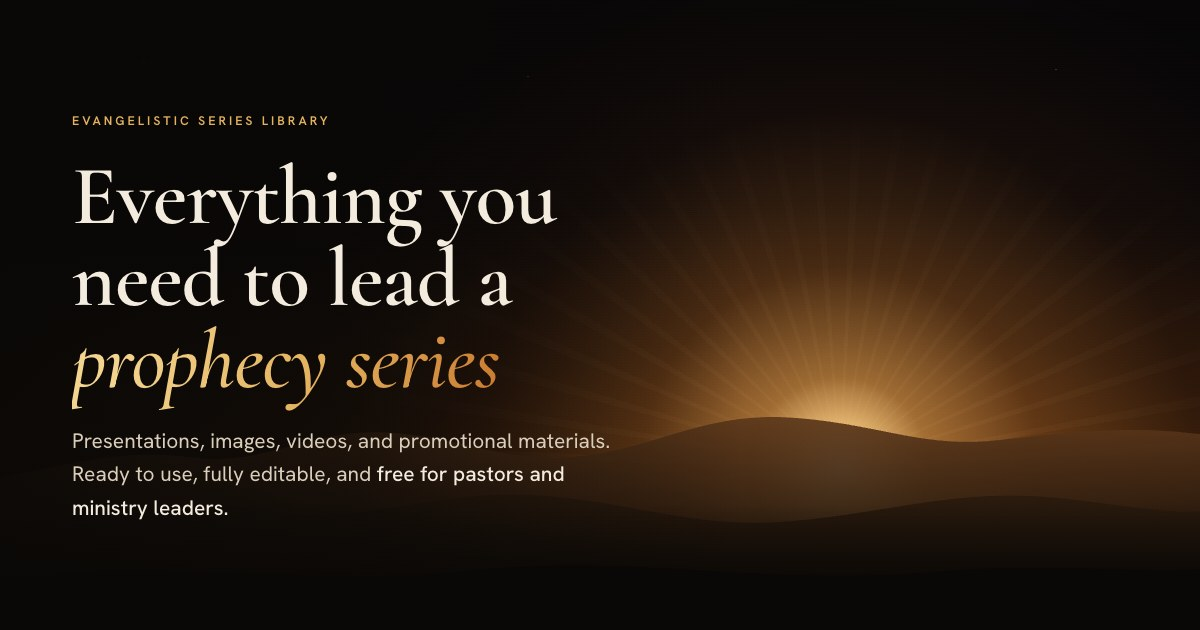
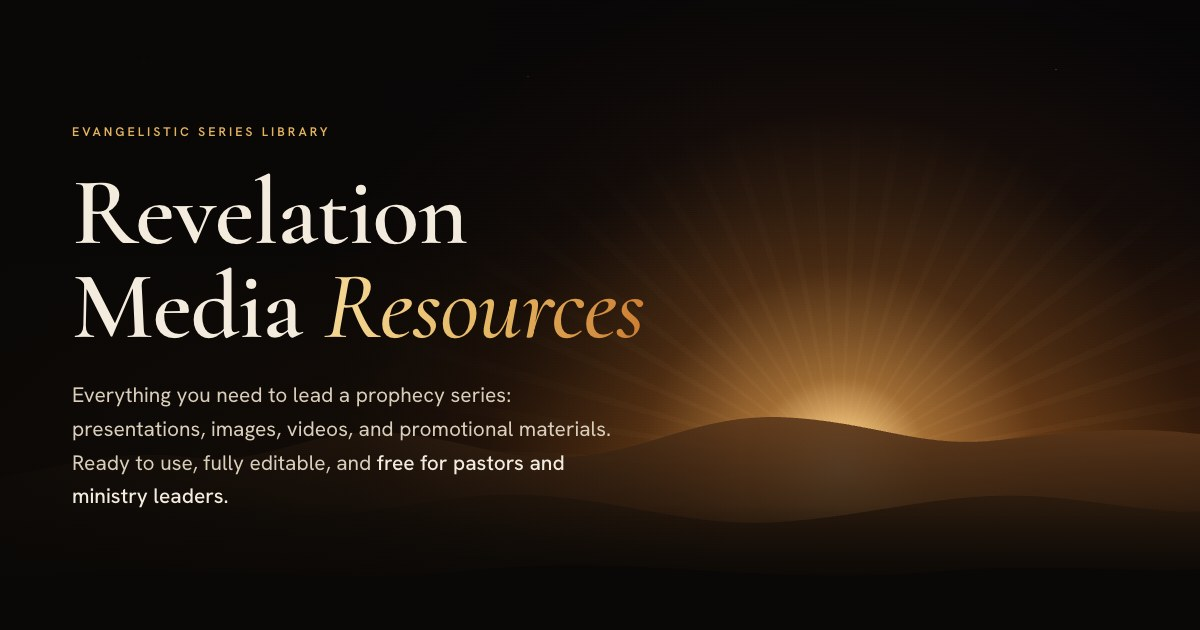
SEO and AEO: search-led titles, H1 with category, linked JSON-LD graph, llms.txt
- Home titles/descriptions per language lead with the search phrase
- H1 includes the Evangelistic Series Library eyebrow (pixel-identical)
- JSON-LD graph: Organization, WebSite, WebPage (speakable), free kit
  CreativeWork with Offer, HowTo, FAQPage, BreadcrumbList
- Definition and audience questions added to the FAQ
- /llms.txt generated from the copy; robots meta with large image preview
- Legal pages noindex and out of the sitemap until real texts arrive
- Fresh per-language OG images, apple-touch-icon, sitemap lastmod

Changed region(s): [[0.0617, 0.2413, 0.555, 0.8143], [0.0617, 0.181, 0.2775, 0.2111]]

diff --git a/src/lib/schema.ts b/src/lib/schema.ts
@@ -1,0 +1,112 @@
+// schema.org structured data (JSON-LD). One @graph per page, nodes linked by @id,
+// so search engines and AI answer engines get a consistent picture of the site.
+import type { Site } from '../i18n';
+import { plain } from './rich';
+
+const BUILD_DATE = new Date().toISOString().slice(0, 10);
+
+interface Ctx {
+  site: Site;
+  siteUrl: string; // https://revelationresource.org/
+  pageUrl: string; // canonical URL of this page
+  homeUrl: string; // home page in this language
+  lang: string;
+  logoUrl: string;
+  contactEmail: string;
+  langs: string[];
+}
+
+const id = (base: string, frag: string) => `${base.replace(/\/$/, '')}/#${frag}`;
+
+export function baseGraph(c: Ctx, page: { name: string; description: string; home: boolean; breadcrumb?: string }) {
+  const org = id(c.siteUrl, 'organization');
+  const website = id(c.siteUrl, 'website');
+  const nodes: Record<string, unknown>[] = [
+    {
+      '@type': 'Organization',
+      '@id': org,
+      name: c.site.organization.name,
+      url: c.siteUrl,
+      logo: { '@type': 'ImageObject', url: c.logoUrl },
+      email: c.contactEmail,
+      contactPoint: { '@type': 'ContactPoint', contactType: 'customer support', email: c.contactEmail, availableLanguage: c.langs },
+    },
+    {
+      '@type': 'WebSite',
+      '@id': website,
+      name: c.site.brand,
+      url: c.siteUrl,
+      inLanguage: c.langs,
+      publisher: { '@id': org },
+    },
+    {
+      '@type': 'WebPage',
+      '@id': `${c.pageUrl}#webpage`,
+      url: c.pageUrl,
+      name: page.name,
+      description: page.description,
+      inLanguage: c.lang,
+      isPartOf: { '@id': website },
+      dateModified: BUILD_DATE,
+      ...(page.home
+        ? {
+            about: { '@id': id(c.homeUrl, 'kit') },
+            primaryImageOfPage: { '@id': id(c.homeUrl, 'ogimage') },
+            // parts a voice assistant can read out
+            speakable: { '@type': 'SpeakableSpecification', cssSelector: ['#hero-title', '.lead', '#faq'] },
+          }
+        : {}),
+      ...(page.breadcrumb ? { breadcrumb: { '@id': `${c.pageUrl}#breadcrumb` } } : {}),
+    },
+  ];
+  if (page.breadcrumb) {
+    nodes.push({
+      '@type': 'BreadcrumbList',
+      '@id': `${c.pageUrl}#breadcrumb`,
+      itemListElement: [
+        { '@type': 'ListItem', position: 1, name: c.site.brand, item: c.homeUrl },
+        { '@type': 'ListItem', position: 2, name: page.breadcrumb, item: c.pageUrl },
+      ],
+    });
+  }
+  return nodes;
+}
+
+/** Extra nodes for the landing page: the kit itself, how to get it, the FAQ. */
+export function homeGraph(c: Ctx, ogImage: string) {
+  const s = c.site;
+  const org = id(c.siteUrl, 'organization');
+  return [
+    { '@type': 'ImageObject', '@id': id(c.homeUrl, 'ogimage'), url: ogImage, width: 1200, height: 630 },
+    {
+      '@type': 'CreativeWork',
+      '@id': id(c.homeUrl, 'kit'),
+      name: s.meta.kitName,
+      alternateName: s.brand,
+      description: plain(s.hero.lead),
+      url: c.homeUrl,
+      image: ogImage,
+      inLanguage: c.langs,
+      isAccessibleForFree: true,
+      audience: { '@type': 'Audience', audienceType: s.meta.audience },
+      publisher: { '@id': org },
+      hasPart: s.inside.stats.map((st) => ({ '@type': 'CreativeWork', name: `${st.value} ${st.label}` })),
+      offers: { '@type': 'Offer', price: '0', priceCurrency: 'USD', availability: 'https://schema.org/InStock', url: `${c.homeUrl}#get` },
+    },
+    {
+      '@type': 'HowTo',
+      '@id': id(c.homeUrl, 'howto'),
+      name: s.meta.howToName,
+      inLanguage: c.lang,
+      totalTime: 'PT1M',
+      estimatedCost: { '@type': 'MonetaryAmount', currency: 'USD', value: '0' },
+      step: s.getKit.steps.map((st, i) => ({ '@type': 'HowToStep', position: i + 1, name: st.title, text: st.text, url: `${c.homeUrl}#get` })),
+    },
+    {
+      '@type': 'FAQPage',
+      '@id': id(c.homeUrl, 'faq'),
+      inLanguage: c.lang,
+      mainEntity: s.faq.items.map((f) => ({ '@type': 'Question', name: f.q, acceptedAnswer: { '@type': 'Answer', text: f.a } })),
+    },
+  ];
+}

diff --git a/src/i18n/locales/en.ts b/src/i18n/locales/en.ts
@@ -19,9 +19,16 @@ const en = {
   },
 
   meta: {
+    // Brand, used as the suffix of every page title
     title: 'Revelation Media Resources',
+    // Home page <title>: lead with what people search for (keep under ~65 characters)
+    homeTitle: 'Free Prophecy Series Kit for Pastors | Revelation Media Resources',
     description:
-      'Presentations, images, videos, and promotional materials for leading a prophecy series. Ready to use, fully editable, and free for pastors and ministry leaders.',
+      'Free evangelistic series kit for pastors: prophecy seminar presentations, images, videos and promo materials, editable in PowerPoint, Keynote and Google Slides.',
+    // Structured data (search engines and AI answers)
+    kitName: 'Revelation Media Resources evangelistic series kit',
+    audience: 'Pastors, church leaders and ministry organizations',
+    howToName: 'How to get the Revelation Media Resources kit',
     ogImageAlt: 'Revelation Media Resources: everything you need to lead a prophecy series',
   },
 
@@ -158,8 +165,11 @@ const en = {
   faq: {
     eyebrow: 'Questions',
     title: 'Before you *ask*',
+    // Also published as FAQPage structured data. Start answers with the direct answer.
     items: [
-      { q: 'Is it really free?', a: 'Yes. The full kit is free for pastors, churches, and ministry organizations. Just fill out the short form to get access.', open: true },
+      { q: 'What is Revelation Media Resources?', a: 'Revelation Media Resources is a free library of ready-made materials for running an evangelistic prophecy series: presentations, slides, images, videos, and promotional materials for pastors, churches, and ministry organizations.', open: true },
+      { q: 'Is it really free?', a: 'Yes. The full kit is free for pastors, churches, and ministry organizations. Just fill out the short form to get access.' },
+      { q: 'Who can use these materials?', a: 'Pastors, church leaders, and ministry organizations who want to run an evangelistic series. No design skills are needed: the files are ready to present and easy to adapt to your church.' },
       { q: 'What formats are included?', a: 'Presentations come in PowerPoint, Keynote, and Google Slides. Images and videos are provided in standard formats that work on any device.' },
       { q: 'Can I edit the materials?', a: "Yes. You can change text, reorder slides, and add your church's details to fit your program." },
       { q: 'Which languages are available?', a: "The kit is available in several languages, listed in the translation section below. Don't see yours? You can help us translate it." },

diff --git a/src/i18n/locales/es.ts b/src/i18n/locales/es.ts
@@ -14,8 +14,12 @@ const es: Site = {
 
   meta: {
     title: 'Revelation Media Resources',
+    homeTitle: 'Kit gratuito para series de profecía | Revelation Media Resources',
     description:
-      'Presentaciones, imágenes, videos y materiales promocionales para dirigir una serie sobre profecía. Listos para usar, totalmente editables y gratuitos para pastores y líderes de ministerio.',
+      'Kit gratuito para pastores: presentaciones para seminarios de profecía, imágenes, videos y materiales promocionales, editables en PowerPoint, Keynote y Google Slides.',
+    kitName: 'Kit de series evangelísticas de Revelation Media Resources',
+    audience: 'Pastores, líderes de iglesia y organizaciones ministeriales',
+    howToName: 'Cómo obtener el kit de Revelation Media Resources',
     ogImageAlt: 'Revelation Media Resources: todo lo que necesita para dirigir una serie sobre profecía',
   },
 
@@ -151,7 +155,9 @@ const es: Site = {
     eyebrow: 'Preguntas',
     title: 'Antes de que *pregunte*',
     items: [
-      { q: '¿Es realmente gratuito?', a: 'Sí. El kit completo es gratuito para pastores, iglesias y organizaciones ministeriales. Solo complete el breve formulario para obtener acceso.', open: true },
+      { q: '¿Qué es Revelation Media Resources?', a: 'Revelation Media Resources es una biblioteca gratuita de materiales listos para dirigir una serie evangelística sobre profecía: presentaciones, diapositivas, imágenes, videos y materiales promocionales para pastores, iglesias y organizaciones ministeriales.', open: true },
+      { q: '¿Es realmente gratuito?', a: 'Sí. El kit completo es gratuito para pastores, iglesias y organizaciones ministeriales. Solo complete el breve formulario para obtener acceso.' },
+      { q: '¿Quién puede usar estos materiales?', a: 'Pastores, líderes de iglesia y organizaciones ministeriales que quieran dirigir una serie evangelística. No necesita saber de diseño: los archivos están listos para presentar y son fáciles de adaptar a su iglesia.' },
       { q: '¿Qué formatos incluye?', a: 'Las presentaciones vienen en PowerPoint, Keynote y Google Slides. Las imágenes y los videos se entregan en formatos estándar que funcionan en cualquier dispositivo.' },
       { q: '¿Puedo editar los materiales?', a: 'Sí. Puede cambiar textos, reordenar diapositivas y agregar los datos de su iglesia para adaptarlos a su programa.' },
       { q: '¿Qué idiomas están disponibles?', a: 'El kit está disponible en varios idiomas, que se indican en la sección de traducción más abajo. ¿No ve el suyo? Puede ayudarnos a traducirlo.' },

diff --git a/src/pages/llms.txt.ts b/src/pages/llms.txt.ts
@@ -1,0 +1,49 @@
+import type { APIRoute } from 'astro';
+import { locales, localeCodes, defaultLocale, localePath } from '../i18n';
+import { legalPagesReady } from '../i18n/config.mjs';
+import { config } from '../config';
+
+// /llms.txt: a plain summary for AI assistants and answer engines (llmstxt.org).
+// Generated from the same copy as the page, so it never drifts.
+export const GET: APIRoute = ({ site }) => {
+  const s = locales[defaultLocale];
+  const url = (lang: string, path = '/') => new URL(localePath(lang, path), site).href;
+  const lines = [
+    `# ${s.brand}`,
+    '',
+    `> ${s.meta.description}`,
+    '',
+    s.faq.items[0].a,
+    '',
+    '## Key facts',
+    '',
+    `- Audience: ${s.meta.audience}`,
+    '- Price: free',
+    `- Formats: ${s.hero.trust.slice(0, 3).join(', ')}`,
+    `- What is included: ${s.inside.stats.map((st) => `${st.value} ${st.label.toLowerCase()}`).join(', ')}`,
+    `- Program stages: ${s.journey.steps.map((st) => st.title).join('; ')}`,
+    `- Site languages: ${localeCodes.map((c) => `${locales[c].locale.name} (${url(c)})`).join(', ')}`,
+    '',
+    '## How to get access',
+    '',
+    ...s.getKit.steps.map((st, i) => `${i + 1}. ${st.title}. ${st.text}`),
+    `Request form: ${url(defaultLocale)}#get`,
+    '',
+    '## Pages',
+    '',
+    `- [${s.brand}](${url(defaultLocale)}): ${s.meta.description}`,
+    ...localeCodes.filter((c) => c !== defaultLocale).map((c) => `- [${locales[c].meta.homeTitle}](${url(c)}): ${locales[c].meta.description}`),
+    ...(legalPagesReady ? [`- [${s.legal.terms.title}](${url(defaultLocale, '/terms')})`, `- [${s.legal.privacy.title}](${url(defaultLocale, '/privacy')})`] : []),
+    '',
+    '## FAQ',
+    '',
+    ...s.faq.items.flatMap((f) => [`### ${f.q}`, '', f.a, '']),
+    '## Contact',
+    '',
+    `- General: ${config.contactEmail}`,
+    `- Support: ${config.supportEmail}`,
+    `- Volunteer translators: ${config.translateEmail}`,
+    '',
+  ];
+  return new Response(lines.join('\n'), { headers: { 'Content-Type': 'text/plain; charset=utf-8' } });
+};

diff --git a/src/pages/robots.txt.ts b/src/pages/robots.txt.ts
@@ -1,6 +1,8 @@
 import type { APIRoute } from 'astro';
 
 export const GET: APIRoute = ({ site }) =>
-  new Response(`User-agent: *\nAllow: /\n\nSitemap: ${new URL('sitemap-index.xml', site).href}\n`, {
+  new Response(
+    // Search engines and AI crawlers are welcome; /llms.txt has a plain-text summary.
+    `User-agent: *\nAllow: /\n\nSitemap: ${new URL('sitemap-index.xml', site).href}\n`, {
     headers: { 'Content-Type': 'text/plain; charset=utf-8' },
   });

diff --git a/README.md b/README.md
@@ -128,6 +128,25 @@ STUB_DELAY=3000 npm run stub         # slow response to see the loading state
 PUBLIC_API_URL=http://localhost:8787/lead npm run dev
 ```
 
+## SEO and answer engines
+
+- **Titles and descriptions:** the home page uses `meta.homeTitle` / `meta.description` from the locale
+  files (search phrase first, brand last). Other pages use "Page | Brand".
+- **H1** contains the category ("Evangelistic Series Library") and the brand.
+- **Structured data** (`src/lib/schema.ts`), one linked JSON-LD graph per page: Organization, WebSite,
+  WebPage (with `speakable`), the kit as a free CreativeWork with an Offer, HowTo (the 3 steps),
+  FAQPage (all FAQ items), BreadcrumbList on legal pages. It is generated from the same copy as the page.
+- **FAQ** opens with a one-sentence definition ("Revelation Media Resources is...") that AI answers can quote.
+  Keep answers direct: answer first, detail after.
+- **/llms.txt**: plain-text summary for AI assistants, generated from the English copy.
+- `hreflang` + `x-default`, canonical, sitemap with `lastmod`, `max-image-preview:large`,
+  per-language Open Graph images (`public/og-default.jpg`, `og-default-es.jpg`).
+- **Legal pages** are `noindex` and out of the sitemap while `legalPagesReady` is `false` in
+  `src/i18n/config.mjs`. Flip it when the client's texts are in.
+
+After launch: verify the domain in Google Search Console and Bing Webmaster Tools, submit
+`/sitemap-index.xml`, and check the page in Google's Rich Results Test.
+
 ## Analytics and consent
 
 With `PUBLIC_GA4_ID` set, a cookie banner (Accept / Decline) appears on the first visit and the choice
